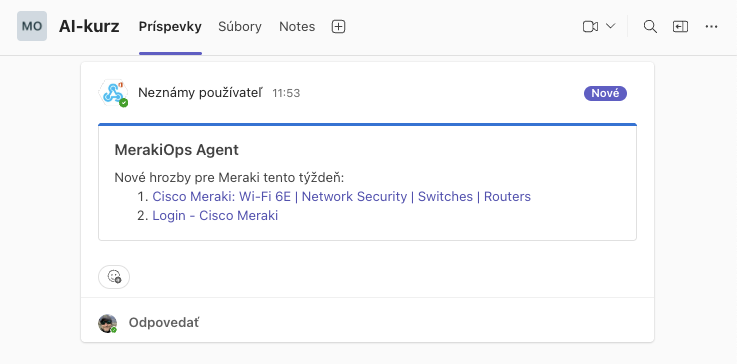
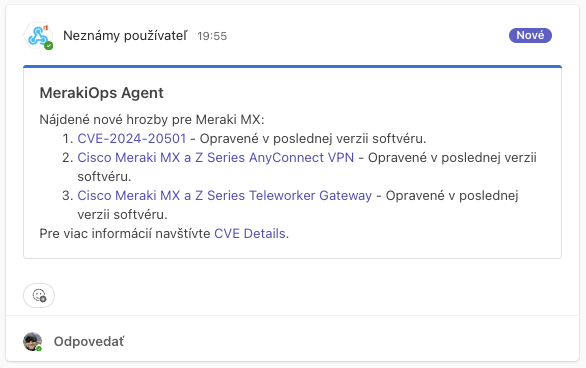
oprava textácie README.md a výmena obrázku s MS Teams reakciou.

diff --git a/README.md b/README.md
@@ -94,12 +94,14 @@ Zdá sa, že zariadenie s sériovým číslom Q234-ABCD-1234 nie je podporované
 ### 4) komunikácia s serpAPI od Google a odpoveď do MS Teams
 
 ```bash
-uv run -m src.app chat "Vyhľadaj nové hrozby pre Meraki tento týždeň a pošli zhrnutie do Teams"
+uv run -m src.app chat "Vyhľadaj nové hrozby publikované v CVE pre Meraki MX za posledné tri mesiace a v ktorej verzii softvéru boli opravené. Výstup svojej správy pošli do Teams"
 ```
 **Očakávaný výstup CLI**
 ```
-Zhrnutie nových hrozieb pre Meraki tento týždeň bolo úspešne odoslané do Teams. Obsahovalo odkazy na relevantné stránky.
+Správa o nových hrozbách pre Meraki MX bola úspešne odoslaná do Teams. Obsahuje odkazy na relevantné CVE a informácie o opravách v posledných verziách softvéru.
 ```
+Očakávaný výstup v MS Teams je na obrázku na začiatku dokuemntu.
+
 ### Ako vizualizovať Nodes a Edges Reason and Act agenta
 
 ```bash
